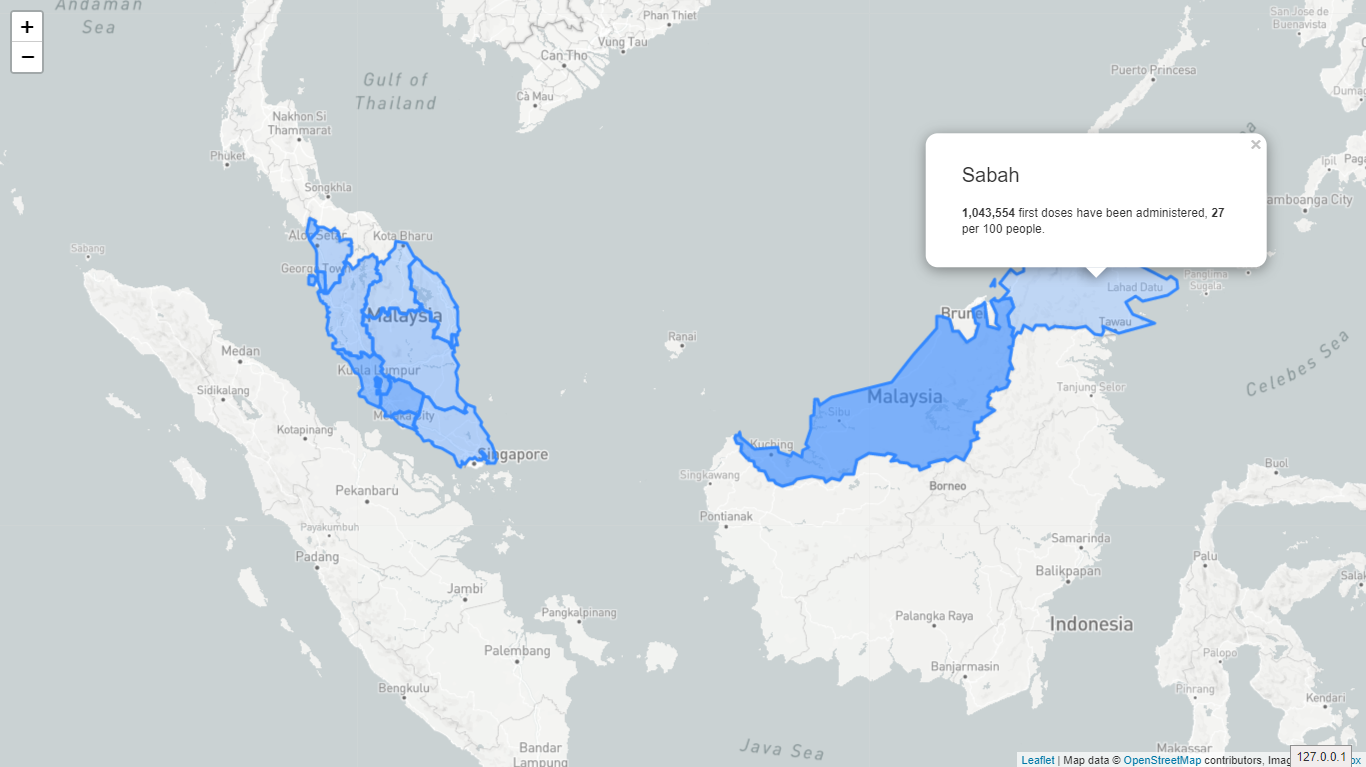
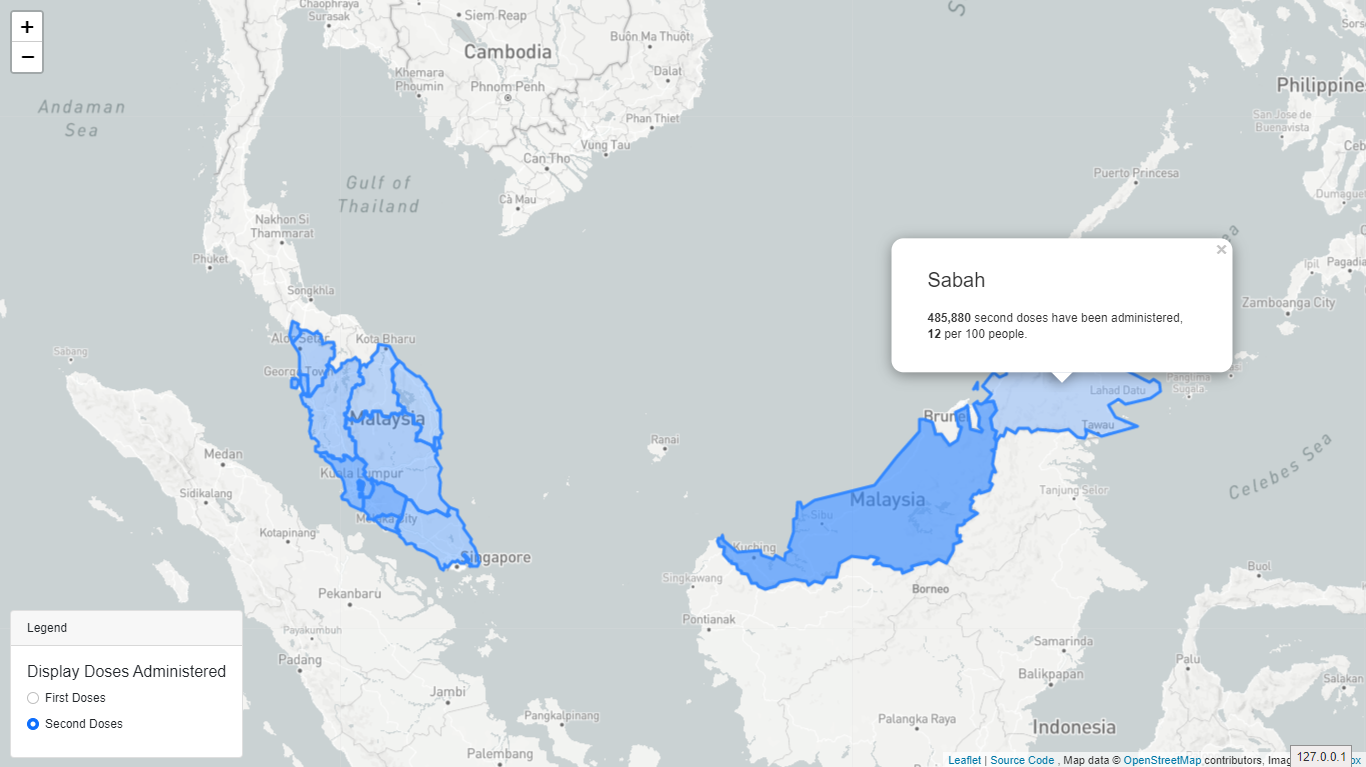
feat: Switch/Radio button to show 2nd dose details

diff --git a/resources/views/welcome.blade.php b/resources/views/welcome.blade.php
@@ -34,6 +34,8 @@
     <!-- Bootstrap JS -->
     <script src="https://cdn.jsdelivr.net/npm/bootstrap@5.1.0/dist/js/bootstrap.bundle.min.js" integrity="sha384-U1DAWAznBHeqEIlVSCgzq+c9gqGAJn5c/t99JyeKa9xxaYpSvHU5awsuZVVFIhvj" crossorigin="anonymous"></script>
 
+    <script src="https://cdnjs.cloudflare.com/ajax/libs/jquery/3.6.0/jquery.min.js" integrity="sha512-894YE6QWD5I59HgZOGReFYm4dnWc1Qt5NtvYSaNcOP+u1T9qYdvdihz0PPSiiqn/+/3e7Jo4EaG7TubfWGUrMQ==" crossorigin="anonymous" referrerpolicy="no-referrer"></script>
+
     <!-- Leaflet JS -->
     <script src="https://unpkg.com/leaflet@1.7.1/dist/leaflet.js"
    integrity="sha512-XQoYMqMTK8LvdxXYG3nZ448hOEQiglfqkJs1NOQV44cWnUrBc8PkAOcXy20w0vlaXaVUearIOBhiXZ5V3ynxwA=="
@@ -55,22 +57,108 @@
             fetch('/data/geojson')
                 .then(response => response.json())
                 .then(data =>{
-                    L.geoJSON(data, {
+                    var geojsonLayer = L.geoJSON(data, {
                         style: function(feature) {
+
+                            const urlParams = new URLSearchParams(window.location.search);
+                            const showCount = urlParams.get('show_count');
+
+                            var weight = "";
+                            
+                            if (showCount == null || showCount=="dose1_cumul") {
+                                weight = feature.properties.Weight1;
+                            }
+
+                            if (showCount=="dose2_cumul") {
+                                weight = feature.properties.Weight2;
+                            }
+
+                            var weight = feature.properties.Weight1;
                             return {
-                                "fillOpacity": feature.properties.Weight1 / 10
+                                "fillOpacity": weight / 10
                             }
                         },
                         onEachFeature: function (feature, layer) {
-                            var template = `
-                                <div class="card-body">
-                                    <h5 class="card-title">${feature.properties.Name}</h5>
-                                    <p class="card-text">${feature.properties.Description1}</p>
-                                </div>
-                            `;
-                            layer.bindPopup(template);
+
+                            layer.on('click', function(){
+                    
+                                const urlParams = new URLSearchParams(window.location.search);
+                                const showCount = urlParams.get('show_count');
+
+                                var description = "";
+                                
+                                if (showCount == null || showCount=="dose1_cumul") {
+                                    description = feature.properties.Description1;
+                                    weight = feature.properties.Weight1;
+                                }
+
+                                if (showCount=="dose2_cumul") {
+                                    description = feature.properties.Description2;
+                                    weight = feature.properties.Weight2;
+                                }
+                                
+
+                                var template = `
+                                    <div class="card-body">
+                                        <h5 class="card-title">${feature.properties.Name}</h5>
+                                        <p class="card-text">${description}</p>
+                                    </div>
+                                `;
+                                layer.bindPopup(template).openPopup();
+
+                            });
+                           
                         }
-                    }).addTo(mymap);
+                    });
+                    
+                    geojsonLayer.addTo(mymap);
+
+
+                    var customControl =  L.Control.extend({
+                                                    options: {
+                                                    position: 'bottomleft'
+                                                    },
+                                                    onAdd: function (map) {
+                                                        var container = L.DomUtil.create('div');
+                                                        container.className = "card"
+                                                        var buttonGroup = `
+                                                        <div class="card-header">
+                                                            Legend
+                                                        </div>
+                                                        <div class="card-body">
+                                                            <h6 class="card-title">Display Doses Administered</h6>
+                                                            <div class="form-check card-text">
+                                                                <input class="form-check-input" type="radio" name="show_count" value="dose1_cumul" id="first_doses" checked>
+                                                                <label class="form-check-label" for="first_doses">
+                                                                    First Doses
+                                                                </label>
+                                                                </div>
+                                                                <div class="form-check">
+                                                                <input class="form-check-input" type="radio" name="show_count" value="dose2_cumul" id="second_doses">
+                                                                <label class="form-check-label" for="second_doses">
+                                                                    Second Doses
+                                                                </label>
+                                                            </div>
+                                                
+                                                        </div>
+                                                        `;
+                                                
+                                                        container.innerHTML = buttonGroup;
+                                                        var firstDose = container.children[1].children[1].children[0];
+                                                        var secondDose = container.children[1].children[2].children[0];
+      
+                                                        var handleShowCount = function($event) {
+                                                            window.history.replaceState(null, null, '/?show_count=' + $event.target.value);
+                                                        };
+
+                                                        firstDose.onclick = handleShowCount
+                                                        secondDose.onclick = handleShowCount
+
+                                                        return container;
+                                                    }
+                                                });
+                    mymap.addControl(new customControl());
+
                 });
 
             

diff --git a/app/Repositories/Eloquent/GeoJSONRepository.php b/app/Repositories/Eloquent/GeoJSONRepository.php
@@ -83,7 +83,7 @@ class GeoJSONRepository implements IGeoJSONRepository
             $item["properties"]["Description1"] =  "<b>".number_format($doses_administered_1st, 0, ".", ",")."</b> first doses have been administered, <b>".$percapita_count_1st."</b> per 100 people.";
 
             $item["properties"]["Weight2"] = round($doses_administered_2nd/$population, 2) * 10;
-            $item["properties"]["Description2"] =  "<b>".number_format($doses_administered_2nd, 0, ".", ",")."</b> second doses have been administered, <b>".$percapita_count_1st."</b> per 100 people.";
+            $item["properties"]["Description2"] =  "<b>".number_format($doses_administered_2nd, 0, ".", ",")."</b> second doses have been administered, <b>".$percapita_count_2nd."</b> per 100 people.";
             
             return $item;
         }, $geojson["features"]);

diff --git a/routes/web.php b/routes/web.php
@@ -1,6 +1,7 @@
 <?php
 
 use Illuminate\Support\Facades\Route;
+use App\Repositories\Contracts\IGeoJSONRepository;
 
 /*
 |--------------------------------------------------------------------------
@@ -18,6 +19,6 @@ Route::get('/', function () {
 });
 
 
-Route::get('/data/geojson', function (\App\Repositories\Contracts\IGeoJSONRepository $geojson_repository) {
+Route::get('/data/geojson', function (IGeoJSONRepository $geojson_repository) {
     return $geojson_repository->getGeoJSON();
 });

diff --git a/README.md b/README.md
@@ -11,7 +11,7 @@ Show the vaccine per capita count in Malaysia map. Data visualization for the va
 
 ## TODO
 
-- [ ] Switch/Radio button to show 2nd dose details.
+- [x] Switch/Radio button to show 2nd dose details.
 - [ ] Legend to show details of what the color opacity represent.
 - [ ] Date picker to show the vaccine dose details based on date.
 - [x] Auto sync with the latest data from citf github repo.
